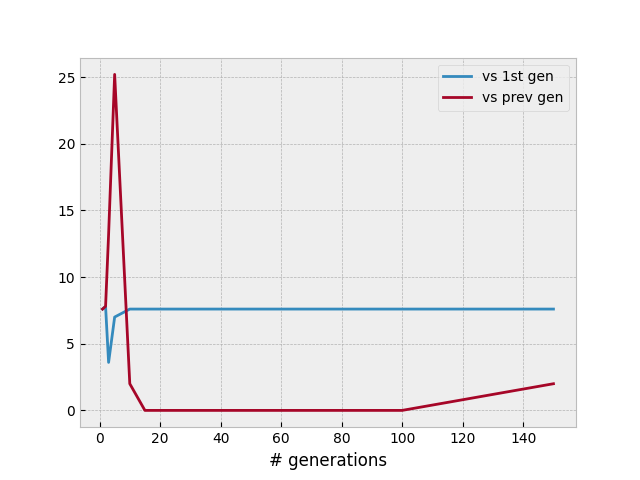
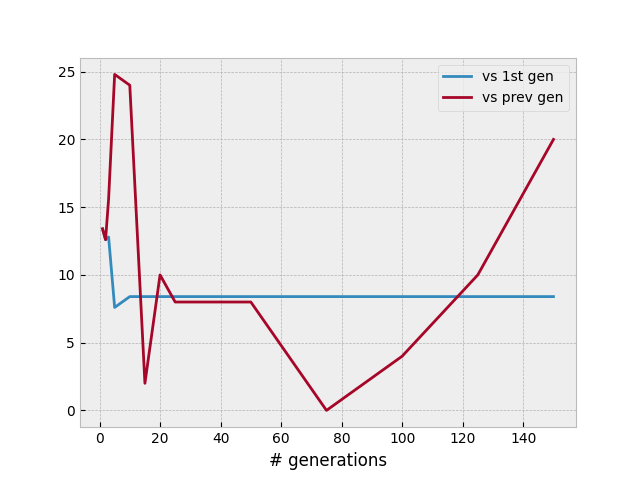
code borken pls help

diff --git a/genetic_alg_folder/test_genetic_alg.py b/genetic_alg_folder/test_genetic_alg.py
@@ -4,11 +4,11 @@ from genetic_alg import *
 from itertools import combinations, product
 import random as r
 import matplotlib.pyplot as plt
-
-gens = list(range(2,26))
+'''
+gens = list(range(2,41))
 pop_size = 32
-fitness = 'b' # rr or b (bracket)
-selection = 'cut' # cut or stoch or tourney
+fitness = 'rr' # rr or b (bracket)
+selection = 'tourney' # cut or stoch or tourney
 mut_rate = 0.001
 
 vs_gen_1 = []
@@ -23,13 +23,13 @@ for gen in gens:
         prev_gen = gen_alg.copy(gen_alg.all_players)
         gen_alg.make_new_gen(fitness, selection, mut_rate)
     new_gen = gen_alg.top_players(gen_alg.all_players, fitness, selection)
+    new_gen_2 = gen_alg.copy(new_gen)
     vs_gen_1_wins = 0
     vs_prev_gen_wins = 0
-    print(new_gen[0].gen)
 
-    for _ in range(50):
+    for _ in range(100):
         matchup_1 = [r.choice(new_gen), r.choice(gen_1)]
-        matchup_2 = [r.choice(new_gen), r.choice(prev_gen)]
+        matchup_2 = [r.choice(new_gen_2), r.choice(prev_gen)]
         r.shuffle(matchup_1)
         r.shuffle(matchup_2)
 
@@ -45,8 +45,8 @@ for gen in gens:
             if game_2.players[game_2.winner-1].gen == gen:
                 vs_prev_gen_wins += 1
 
-    vs_gen_1.append(vs_gen_1_wins)
-    vs_prev_gen.append(vs_prev_gen_wins)
+    vs_gen_1.append(vs_gen_1_wins/100)
+    vs_prev_gen.append(vs_prev_gen_wins/100)
 
 plt.style.use('bmh')
 plt.plot(gens, vs_gen_1, label='vs 1st gen')
@@ -54,8 +54,17 @@ plt.plot(gens, vs_prev_gen, label='vs prev gen')
 plt.xlabel('# generations')
 plt.legend(loc='best')
 plt.savefig('test.png')
-
 '''
+
+pop_size = 32
+fitness = 'rr'
+selection = 'cut'
+mut_rate = 0
+gens = [1,2,3,5,10,15,20,25,50,75,100,125,150]
+
+gen_alg = GeneticAlgorithm(pop_size)
+
+
 plot_1 = []
 plot_2 = []
 plot_3 = []
@@ -64,6 +73,7 @@ plot_4 = []
 gen_1 = gen_alg.copy(gen_alg.all_players)
 prev_gen = gen_alg.copy(gen_alg.all_players)
 for gen in gens:
+    print(gen)
     while gen_alg.generation != gen:
         prev_gen = gen_alg.copy(gen_alg.all_players)
         gen_alg.make_new_gen('rr', 'cut', 0)
@@ -85,7 +95,7 @@ plt.xlabel('# generations')
 plt.legend(loc='best')
 plt.savefig('plots_1_and_2.png')
 
-
+'''
 for gen in gens:
     while gen_alg.generation != gen:
         gen_alg.make_new_gen('rr', 'cut', 0)
